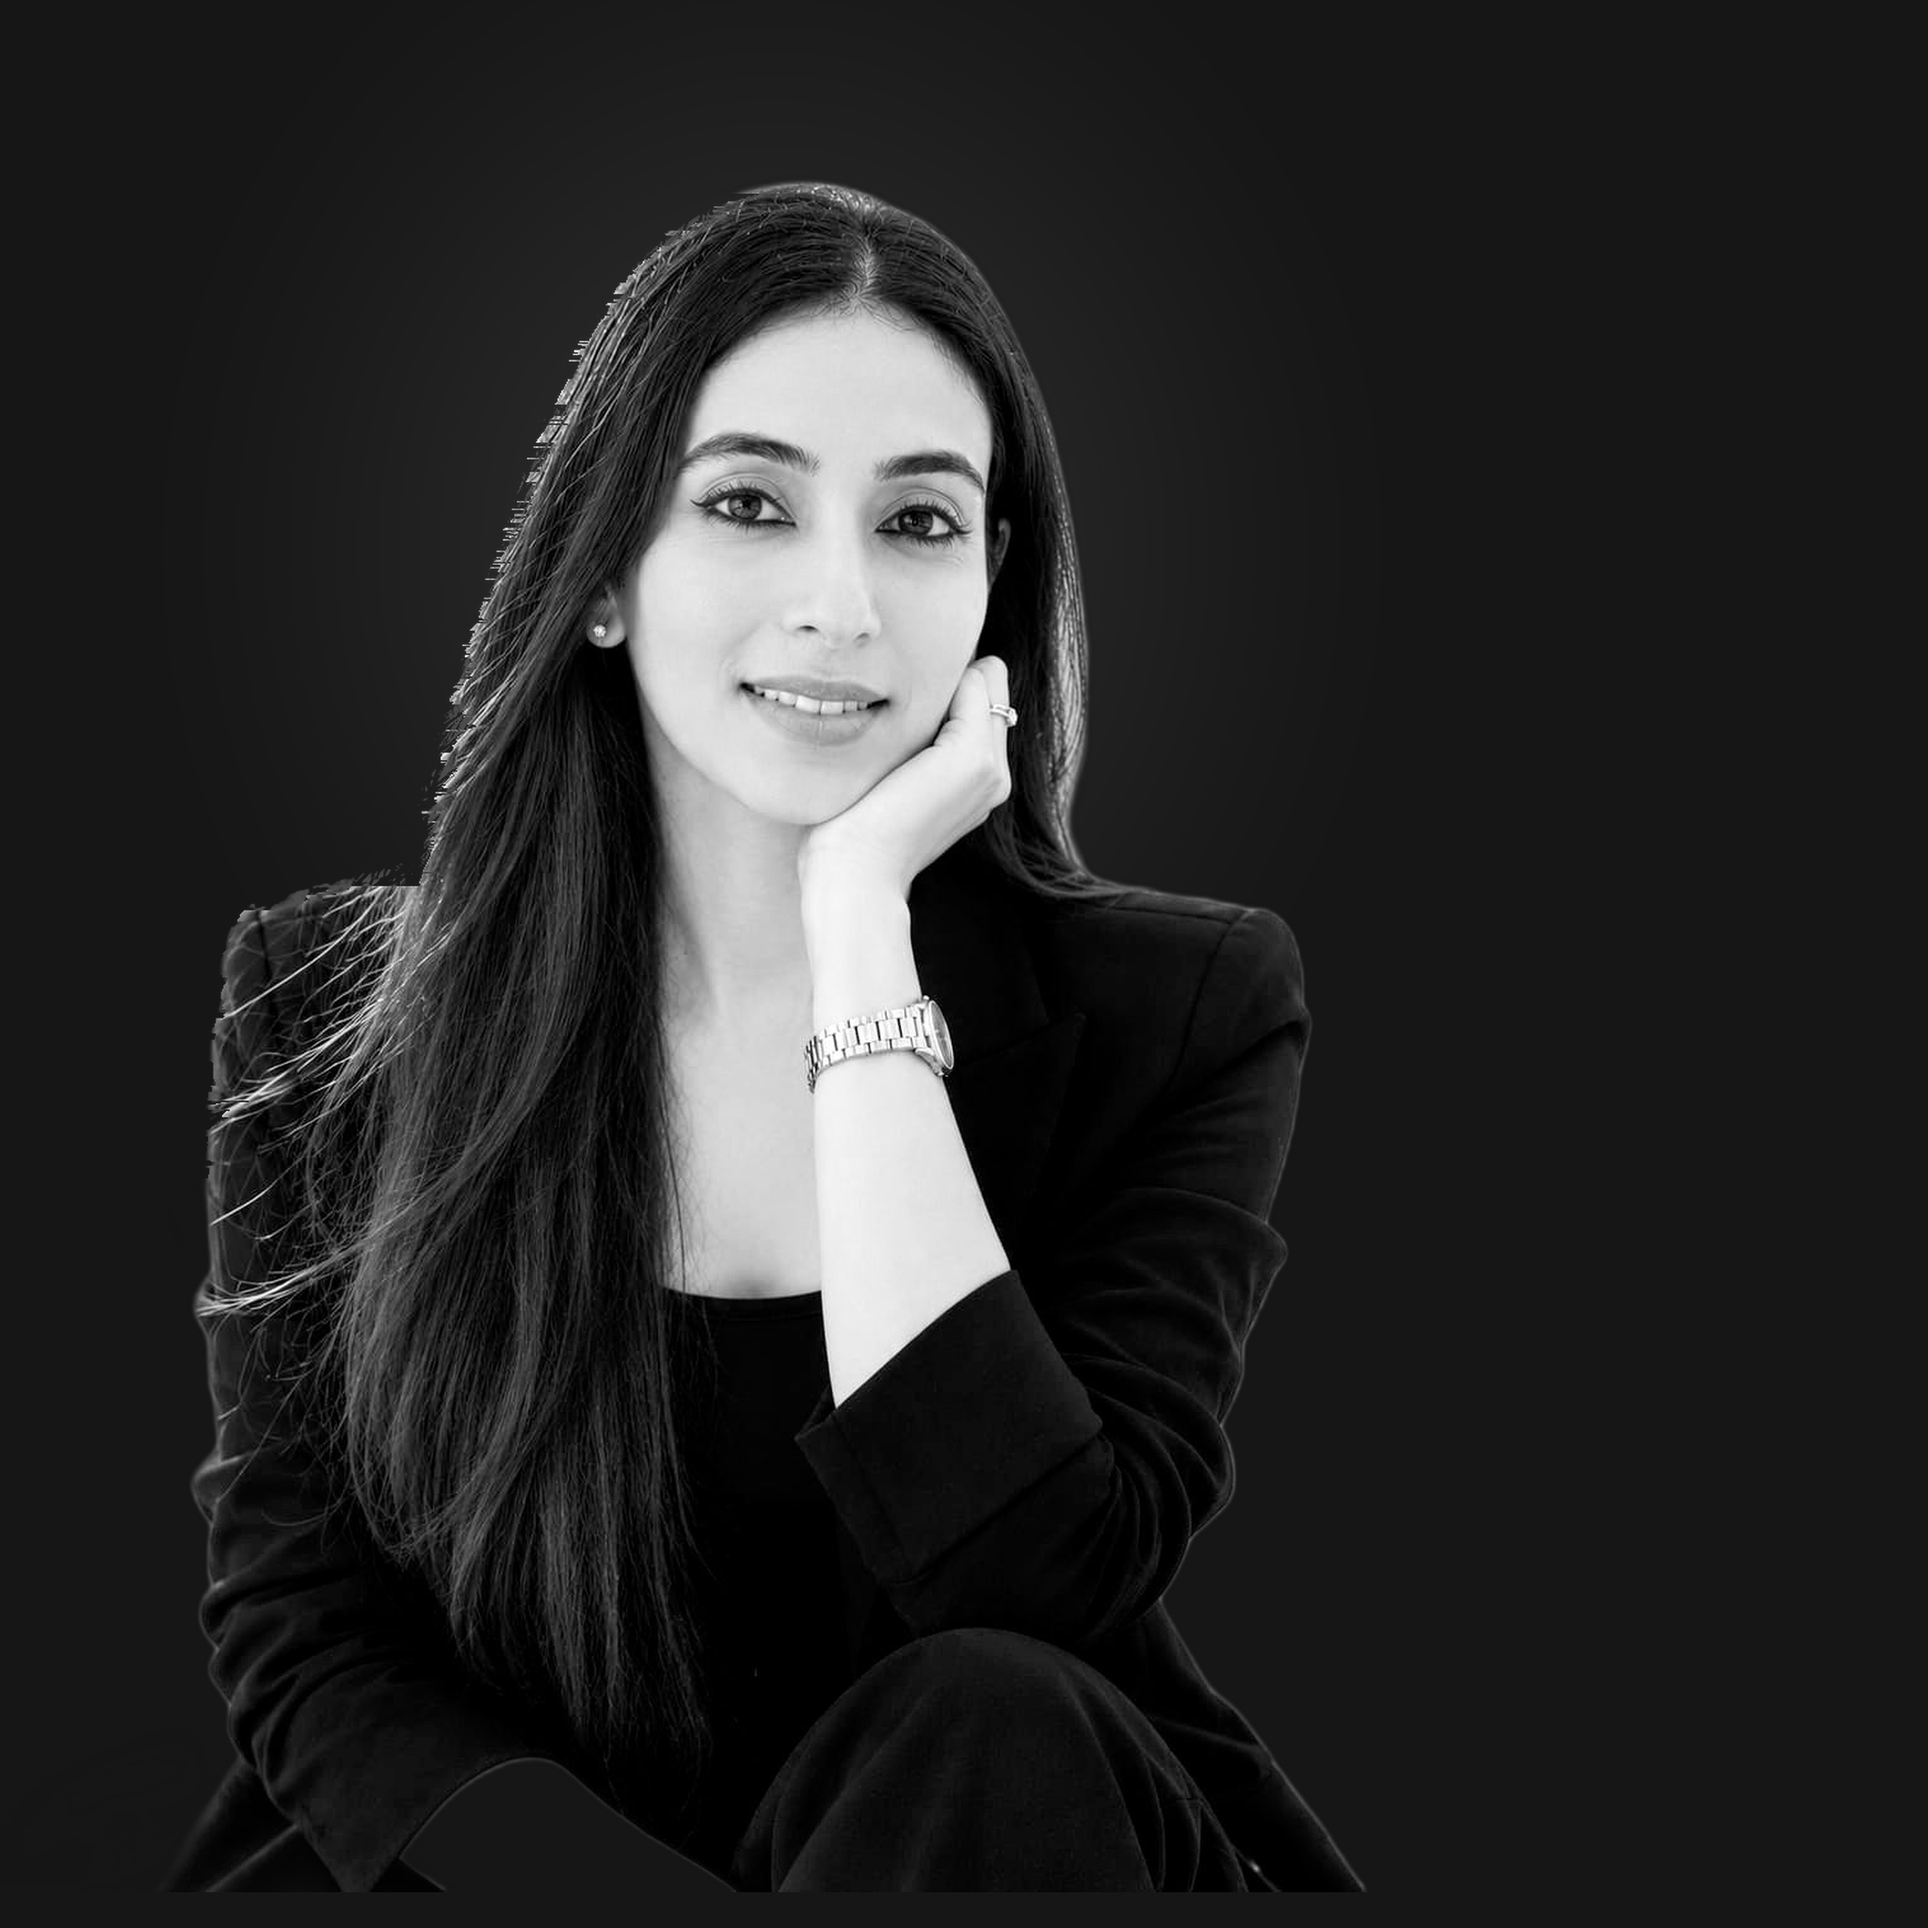
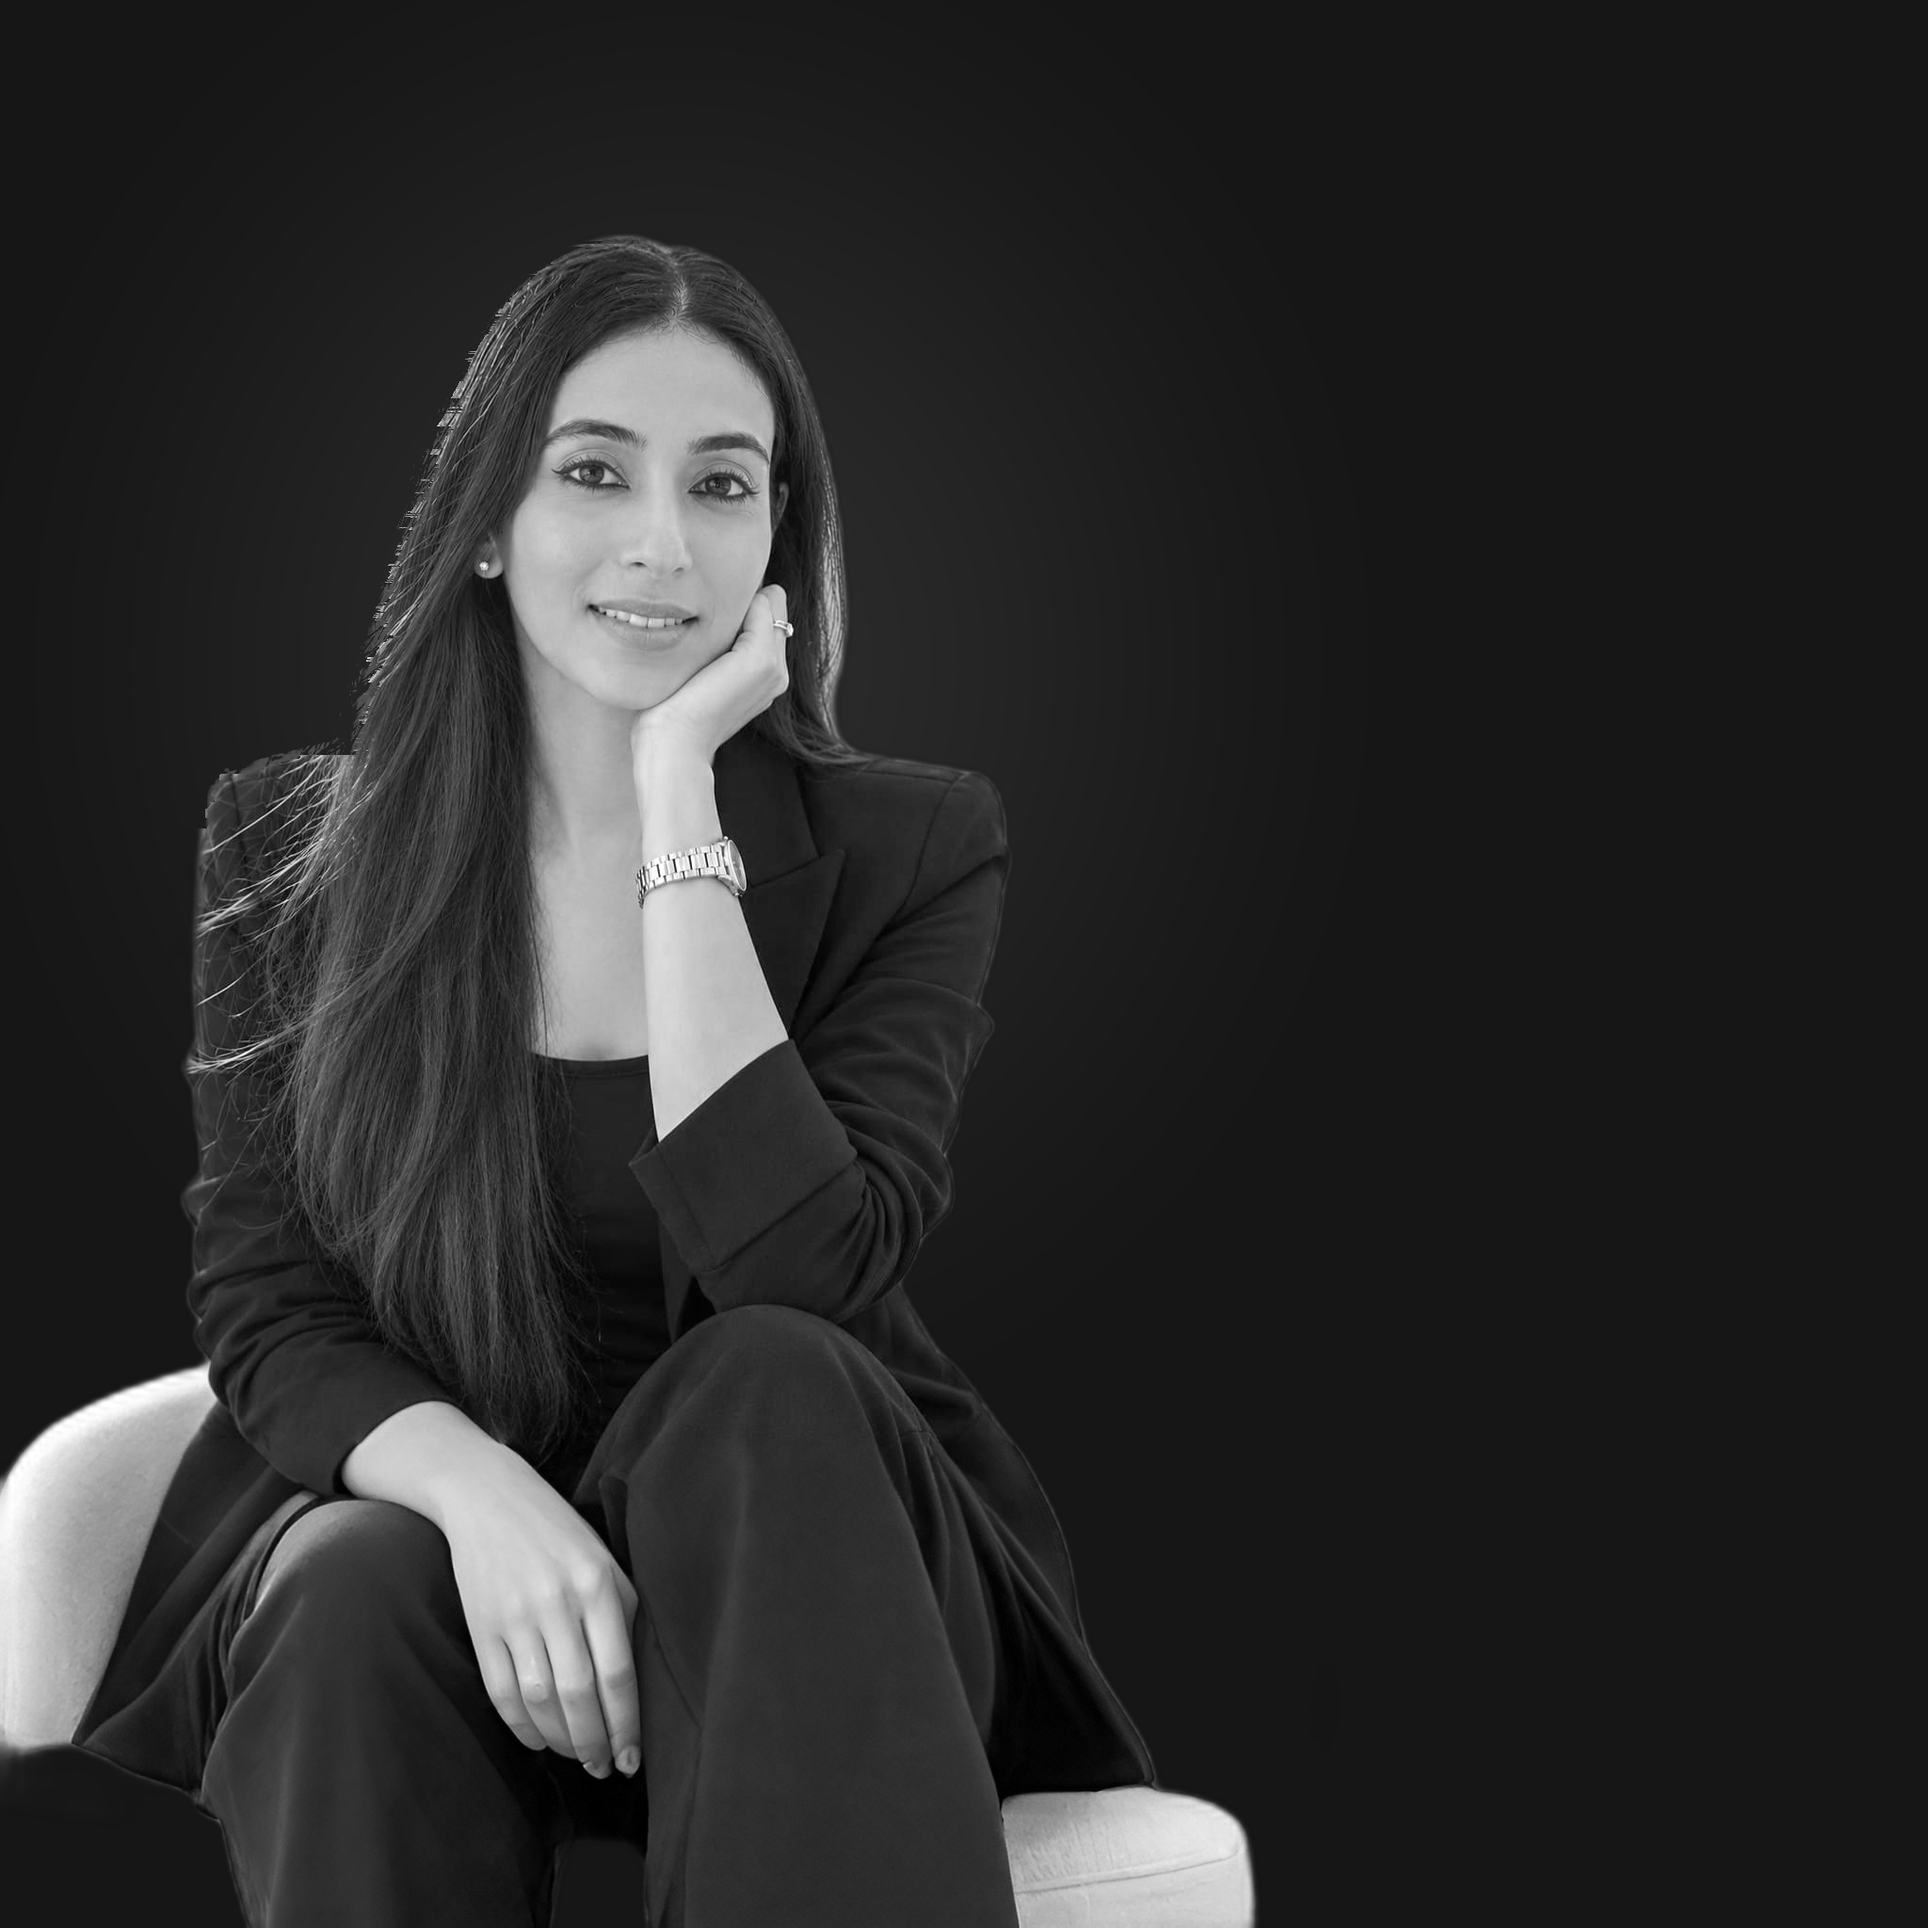
Replace hero portrait with wide-framed armchair portrait from hero image.png

Changed region(s): [[0.0, 0.0938, 0.6562, 1.0], [0.625, 0.4688, 0.6875, 0.5], [0.625, 0.6875, 0.6562, 0.7188]]

diff --git a/js/gravity-app.js b/js/gravity-app.js
@@ -140,7 +140,7 @@
     if (img.decode) { img.decode().then(zeigen, zeigen); } else { zeigen(); }
   };
   img.onerror = zeigen;
-  img.src = 'images/gravity/portrait.jpg?v=p2';
+  img.src = 'images/gravity/portrait.jpg?v=p3';
   if (img.complete && img.naturalWidth) { img.onload(); }
 
   setTimeout(zeigen, 2000);
@@ -157,8 +157,8 @@
 
   var FG_DARK = '#FFFFFF';
   var FG_LIGHT = '#2B2B2B';
-  var PHOTO_DARK = 'images/gravity/portrait.jpg?v=p2';
-  var PHOTO_LIGHT = 'images/gravity/portrait.jpg?v=p2';
+  var PHOTO_DARK = 'images/gravity/portrait.jpg?v=p3';
+  var PHOTO_LIGHT = 'images/gravity/portrait.jpg?v=p3';
 
   var OVERLAY_DARK = ['rgba(16,16,16,0.72)', 'rgba(16,16,16,0.38)', 'rgba(16,16,16,0.12)'];
   var OVERLAY_LIGHT = ['rgba(16,16,16,0.16)', 'rgba(16,16,16,0.08)', 'rgba(16,16,16,0.02)'];
@@ -3783,9 +3783,9 @@
     bild.src = quelle;
   }
 
-  laden('images/gravity/tiefenkarte.png?v=tk2', function (karte) {
+  laden('images/gravity/tiefenkarte.png?v=tk3', function (karte) {
     if (!karte) { status('tiefenkarte.png fehlt'); return; }
-    laden('images/gravity/portrait.jpg?v=p2', function (foto) {
+    laden('images/gravity/portrait.jpg?v=p3', function (foto) {
       if (!foto) { status('portrait.jpg fehlt'); return; }
 
       try {

diff --git a/index.html b/index.html
@@ -198,8 +198,8 @@
   <link rel="stylesheet" href="css/extra.css?v=149">
   <link rel="stylesheet" href="css/loader.css?v=9">
   <link rel="stylesheet" href="css/ai-assistant.css?v=120">
-  <link rel="preload" as="image" href="images/gravity/portrait.jpg?v=p2" fetchpriority="high">
-  <link rel="stylesheet" href="css/gravity-home.css?v=28">
+  <link rel="preload" as="image" href="images/gravity/portrait.jpg?v=p3" fetchpriority="high">
+  <link rel="stylesheet" href="css/gravity-home.css?v=29">
   <link rel="stylesheet" href="css/editor.css?v=7">
 </head>
 
@@ -1844,7 +1844,7 @@ a,
   <script src="js/vendor/lenis.min.js"></script>
   <script src="js/vendor/swiper-bundle.min.js"></script>
   <script src="js/vendor/ztstestimonials.js"></script>
-  <script src="js/gravity-app.js?v=5"></script>
+  <script src="js/gravity-app.js?v=6"></script>
   <script src="js/main.js?v=80"></script>
   <script src="js/fluidbg.js?v=1" defer></script>
   <script src="js/ai-assistant.js?v=118"></script>

diff --git a/css/gravity-home.css b/css/gravity-home.css
@@ -85,7 +85,7 @@
     position:relative; z-index:3;
     width:100%; height:150vh;
     background:var(--bg);
-    --photo:url('../images/gravity/portrait.jpg?v=p2');
+    --photo:url('../images/gravity/portrait.jpg?v=p3');
   }
 
   .om-bg::after{
